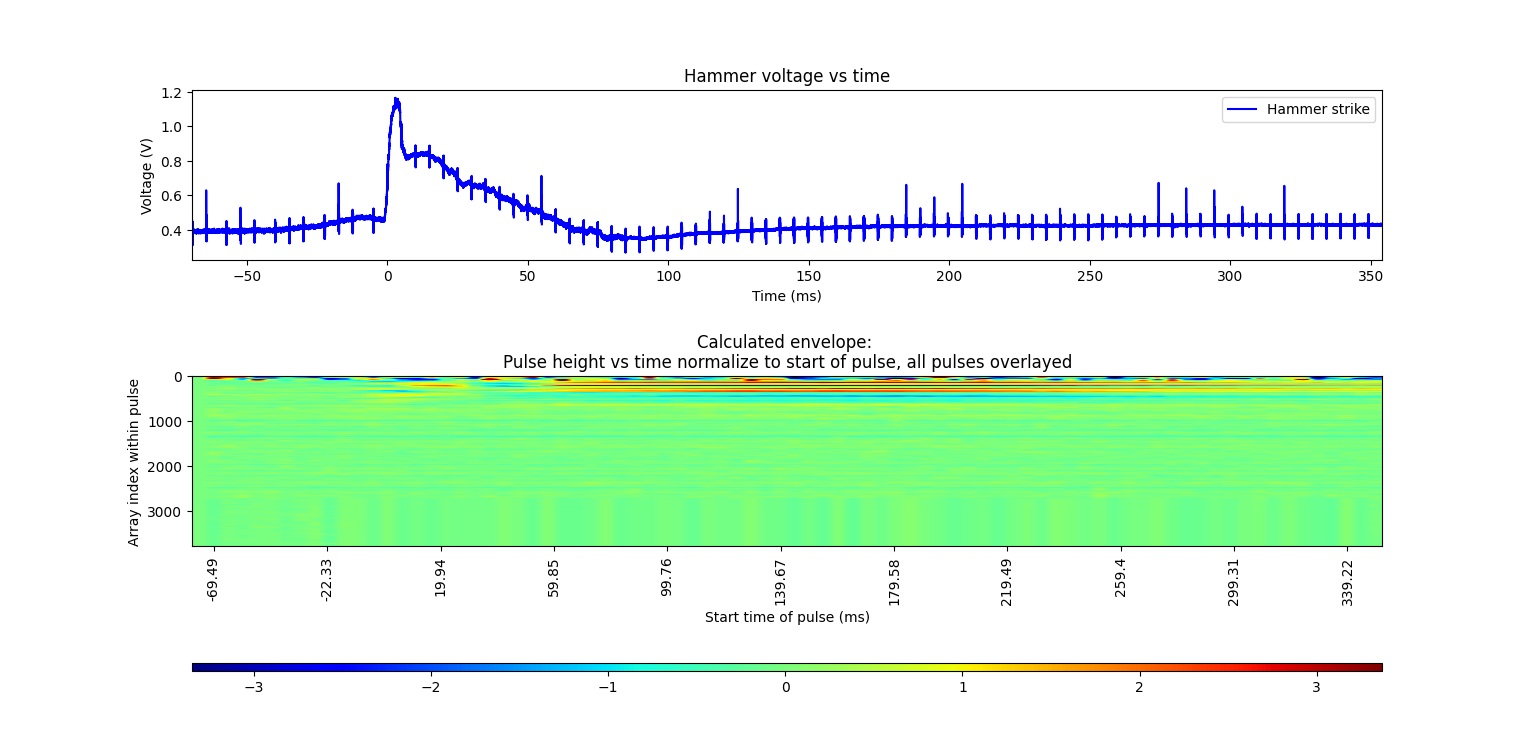
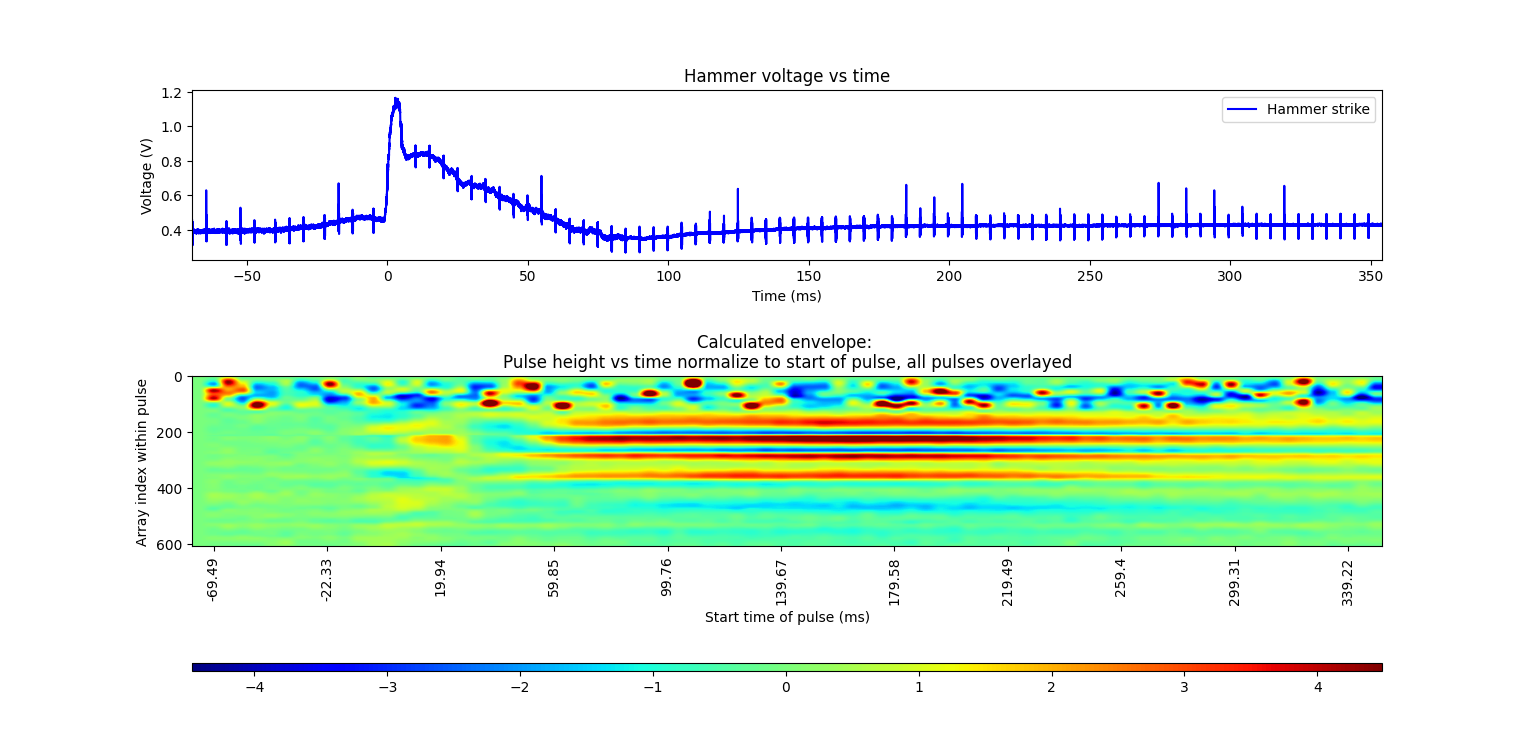
yer finished analyzing exp 11

Changed region(s): [[0.0625, 0.4881, 0.9062, 0.7321], [0.7812, 0.7626, 0.8125, 0.7931], [0.5, 0.7626, 0.5312, 0.7931]]

diff --git a/src/data_analysis_jupyter/analyze_Pico_data.py b/src/data_analysis_jupyter/analyze_Pico_data.py
@@ -486,9 +486,14 @@ def plot_heat_map(input_files, folder_path = "", png_name = "", stddev = 3, use_
     ax2.set_title(title_addend+' envelope: \nPulse height vs time normalize to start of pulse, all pulses overlayed')
     ax2.set_ylabel('Array index within pulse')
     ax2.set_xlabel('Start time of pulse (ms)')
+    
     time_tick_positions = np.arange(1, NUM_PULSES, NUM_PULSES / len(time_ticks))
-    ax2.set_xticks(ticks=time_tick_positions[0::int(len(time_ticks)/10)])
-    ax2.set_xticklabels(labels=time_ticks[0::int(len(time_ticks)/10)])
+    selected_positions = time_tick_positions[0::int(len(time_ticks)/10)]
+    selected_ticks = np.round(np.asarray(time_ticks[0::int(len(time_ticks)/10)]), 2)
+    selected_positions = selected_positions[:min(len(selected_ticks), len(selected_positions))]
+    selected_ticks = selected_ticks[:min(len(selected_ticks), len(selected_positions))]
+    ax2.set_xticks(ticks=selected_positions)
+    ax2.set_xticklabels(labels=selected_ticks)
     ax2.tick_params(axis='x', rotation=90)
 
     # Colorbar subplot
@@ -650,7 +655,12 @@ def plot_2d(input_file_array, legends, use_integral = True, use_calculated_env =
     total_sum_signal_times = []
     total_sum_signal_voltages = []
     i = 0
+
+    # To slice which part of the heatmap we are observing (set both to False to not slice)
     ignore_start_of_pulse = True
+    start_border_ms = 0.3 # Only look at the part of the pulse after this time in ms in the pulse
+    ignore_end_of_pulse = True
+    end_border_ms = 1.2 # Only look at the part of the pulse before this time in ms in the pulse
     
     # Find y-limit
     abs_max = 0
@@ -683,15 +693,20 @@ def plot_2d(input_file_array, legends, use_integral = True, use_calculated_env =
             dt = np.mean(np.diff(times_of_interest))
             these_times.append(times_of_interest[0])
 
-            # Slice off the beginning of the pulse
-            noise_border_index = 0
+            # Slice off the beginning and end of the pulse, if desired
             first_pulse = arr_of_interest[0]
+            start_border_index = 0
             if (ignore_start_of_pulse):
-                noise_border = 0.2 # Only look at the part of the pulse after this time in ms in the pulse
-                noise_border_index = np.searchsorted(times_of_interest, noise_border + times_of_interest[0], side='right')
-                times_of_interest = times_of_interest[noise_border_index:]
-                pulse_of_interest = pulse_of_interest[noise_border_index:]
-                first_pulse = first_pulse[noise_border_index:]
+                start_border_index = np.searchsorted(times_of_interest, start_border_ms + times_of_interest[0], side='right')
+                times_of_interest = times_of_interest[start_border_index:]
+                pulse_of_interest = pulse_of_interest[start_border_index:]
+                first_pulse = first_pulse[start_border_index:]
+            end_border_index = 0
+            if (ignore_end_of_pulse):
+                end_border_index = np.searchsorted(times_of_interest, end_border_ms + times_of_interest[0], side='left')
+                times_of_interest = times_of_interest[:end_border_index]
+                pulse_of_interest = pulse_of_interest[:end_border_index]
+                first_pulse = first_pulse[:end_border_index]
 
             if use_abs: pulse_of_interest = np.abs(pulse_of_interest - first_pulse)
 
@@ -746,7 +761,7 @@ def plot_2d(input_file_array, legends, use_integral = True, use_calculated_env =
 
     # Peaks and valleys of the "total"
     dt = np.mean(np.diff(total_sum_signal_times)) # in ms
-    min_dist_btw_peaks_in_ms = 50
+    min_dist_btw_peaks_in_ms = 30
     peaks, _ = find_peaks(total_sum_signal_voltages, distance=min_dist_btw_peaks_in_ms/dt)
     valleys, _ = find_peaks(-1*total_sum_signal_voltages, distance=min_dist_btw_peaks_in_ms/dt)
 
@@ -842,7 +857,7 @@ if __name__ == "__main__":
         "src/app_v1/data_from_experiments/lower_resolution_longer_time_trials/sina/Pico/sina_8ms_37.csv"
     ]
 
-    # RACHEL
+    ######## RACHEL
     rachel_no_box_indiv = [
         "src/app_v1/data_from_experiments/reflex_by_subject/Pico/rachel/rachel_no_box/rachel_t1.csv",
         "src/app_v1/data_from_experiments/reflex_by_subject/Pico/rachel/rachel_no_box/rachel_t2.csv",
@@ -856,6 +871,63 @@ if __name__ == "__main__":
         "src/app_v1/data_from_experiments/reflex_by_subject/Pico/rachel/rachel_no_box/rachel_t10.csv"
     ]
 
+    rachel_day_1_B1point5 = [
+        "src/app_v1/data_from_experiments/reflex_by_subject/Pico/rachel/rachel_8_30_24/rachel_1.csv",
+        "src/app_v1/data_from_experiments/reflex_by_subject/Pico/rachel/rachel_8_30_24/rachel_2.csv",
+        "src/app_v1/data_from_experiments/reflex_by_subject/Pico/rachel/rachel_8_30_24/rachel_3.csv",
+        "src/app_v1/data_from_experiments/reflex_by_subject/Pico/rachel/rachel_8_30_24/rachel_4.csv",
+        "src/app_v1/data_from_experiments/reflex_by_subject/Pico/rachel/rachel_8_30_24/rachel_5.csv",
+        "src/app_v1/data_from_experiments/reflex_by_subject/Pico/rachel/rachel_8_30_24/rachel_6.csv",
+        "src/app_v1/data_from_experiments/reflex_by_subject/Pico/rachel/rachel_8_30_24/rachel_7.csv",
+        "src/app_v1/data_from_experiments/reflex_by_subject/Pico/rachel/rachel_8_30_24/rachel_8.csv",
+        "src/app_v1/data_from_experiments/reflex_by_subject/Pico/rachel/rachel_8_30_24/rachel_9.csv",
+        "src/app_v1/data_from_experiments/reflex_by_subject/Pico/rachel/rachel_8_30_24/rachel_10.csv",
+    ]
+
+    rachel_day_2_B1point5 = [
+        "src/app_v1/data_from_experiments/reflex_by_subject/Pico/rachel/rachel_9_4_24/rachel1.csv",
+        "src/app_v1/data_from_experiments/reflex_by_subject/Pico/rachel/rachel_9_4_24/rachel2.csv",
+        "src/app_v1/data_from_experiments/reflex_by_subject/Pico/rachel/rachel_9_4_24/rachel3.csv",
+        "src/app_v1/data_from_experiments/reflex_by_subject/Pico/rachel/rachel_9_4_24/rachel4.csv",
+        "src/app_v1/data_from_experiments/reflex_by_subject/Pico/rachel/rachel_9_4_24/rachel5.csv",
+        "src/app_v1/data_from_experiments/reflex_by_subject/Pico/rachel/rachel_9_4_24/rachel6.csv",
+        "src/app_v1/data_from_experiments/reflex_by_subject/Pico/rachel/rachel_9_4_24/rachel7.csv",
+        "src/app_v1/data_from_experiments/reflex_by_subject/Pico/rachel/rachel_9_4_24/rachel8.csv",
+        "src/app_v1/data_from_experiments/reflex_by_subject/Pico/rachel/rachel_9_4_24/rachel9.csv",
+        "src/app_v1/data_from_experiments/reflex_by_subject/Pico/rachel/rachel_9_4_24/rachel10.csv"
+    ]
+
+    rachel_day_1_B5point5 = [
+        "src/app_v1/data_from_experiments/lower_resolution_longer_time_trials/rachel/Pico/rachel_8_30_24/rachel_long_trial_1_better.csv",
+        "src/app_v1/data_from_experiments/lower_resolution_longer_time_trials/rachel/Pico/rachel_8_30_24/rachel_long_trial_2.csv",
+        "src/app_v1/data_from_experiments/lower_resolution_longer_time_trials/rachel/Pico/rachel_8_30_24/rachel_long_trial_3.csv",
+        "src/app_v1/data_from_experiments/lower_resolution_longer_time_trials/rachel/Pico/rachel_8_30_24/rachel_long_trial_4.csv",
+        "src/app_v1/data_from_experiments/lower_resolution_longer_time_trials/rachel/Pico/rachel_8_30_24/rachel_long_trial_5.csv",
+        "src/app_v1/data_from_experiments/lower_resolution_longer_time_trials/rachel/Pico/rachel_8_30_24/rachel_long_trial_6.csv",
+        "src/app_v1/data_from_experiments/lower_resolution_longer_time_trials/rachel/Pico/rachel_8_30_24/rachel_long_trial_7.csv",
+        "src/app_v1/data_from_experiments/lower_resolution_longer_time_trials/rachel/Pico/rachel_8_30_24/rachel_long_trial_8.csv",
+        "src/app_v1/data_from_experiments/lower_resolution_longer_time_trials/rachel/Pico/rachel_8_30_24/rachel_long_trial_9.csv"
+    ]
+
+    rachel_day_2_B5point5 = [
+        "src/app_v1/data_from_experiments/lower_resolution_longer_time_trials/rachel/Pico/rachel_9_4_24/rachel1.csv",
+        "src/app_v1/data_from_experiments/lower_resolution_longer_time_trials/rachel/Pico/rachel_9_4_24/rachel2.csv",
+        "src/app_v1/data_from_experiments/lower_resolution_longer_time_trials/rachel/Pico/rachel_9_4_24/rachel3.csv",
+        "src/app_v1/data_from_experiments/lower_resolution_longer_time_trials/rachel/Pico/rachel_9_4_24/rachel4.csv",
+        "src/app_v1/data_from_experiments/lower_resolution_longer_time_trials/rachel/Pico/rachel_9_4_24/rachel5.csv"
+    ]
+
+
+    #### HAMID
+
+    hamid_indiv_long_trials = [
+        "src/app_v1/data_from_experiments/lower_resolution_longer_time_trials/hamid/Pico/hamidtrial11.csv",
+        "src/app_v1/data_from_experiments/lower_resolution_longer_time_trials/hamid/Pico/hamidtrial13.csv",
+        "src/app_v1/data_from_experiments/lower_resolution_longer_time_trials/hamid/Pico/hamidtrial14.csv",
+        "src/app_v1/data_from_experiments/lower_resolution_longer_time_trials/hamid/Pico/hamidtrial15.csv",
+        "src/app_v1/data_from_experiments/lower_resolution_longer_time_trials/hamid/Pico/hamidtrial16.csv",
+    ]
+
     #####################################################################################################
     #####################################################################################################
     #####################################################################################################
@@ -863,7 +935,7 @@ if __name__ == "__main__":
     # REMINDER: col_index_order: col_indexes = [times, hammer, transmit, recieved, circuit_env, emg = 1]
     
     # !!!!!!!!!!!!!!!!!!!!!!!!!!!!!!!!!!!!!!!!!!!!!!!!!!!! Example usage: Uncomment to analyze one trial.
-    #''' 
+    ''' 
     # !!!!!!!!!!!!!!! User should edit: file_name, col_order as needed.
     file_name = box_file_names_sina_B5point5[0]
     col_order = [0, 3, 4, 1, 2, 1]  # time, recieved, env, hammer, square
@@ -890,27 +962,6 @@ if __name__ == "__main__":
     # Heat map of calculated envelope
     plot_heat_map(my_arr, folder_path=file_folder_name, png_name=specific_file_name, stddev=6, plot_circuit_env=False)
 
-    # plot 2D
-    #'''
-    hammer_times = my_arr[0]
-    hammer_recieved = my_arr[1]
-    emg_recieved = my_arr[2]
-    cuff_times_reshaped = my_arr[3]
-    cuff_recieved_reshaped = my_arr[4]
-    circuit_env_reshaped = my_arr[5]
-    calculated_envelope_reshaped = my_arr[6]
-    time_ticks = my_arr[7]
-    NUM_PULSES = my_arr[8]
-    new_pulse_arr = []
-    new_time_arr = cuff_times_reshaped[:,0]
-    first_pulse = calculated_envelope_reshaped[0]
-    for r in range(NUM_PULSES):
-        this_pulse = calculated_envelope_reshaped[r]
-        new_pulse_arr.append(np.average(np.abs(this_pulse[150:] - first_pulse[150:])))
-    plt.plot(new_time_arr, new_pulse_arr)
-    plt.show()
-    #'''
-
     # GIF of calculated envelope and recieved pulses.
     # get_gif(my_csv, col_order, save_as_mp4=False, plot_circuit_envelope = False, file_folder_name=file_folder_name, specific_file_name=specific_file_name)
     
@@ -927,8 +978,8 @@ if __name__ == "__main__":
     # !!!!!!!!!!!!!!! User should edit: legends, col_order, file_names as needed.
     legends = ["T1", "T2", "T3", "T4", "T5", "T6", "T7", "T8", "T9", "T10"]
     col_order = [0, 3, 4, 1, 2, 1]  # time, recieved, ENVELOPE, hammer, square
-    file_names = box_file_names_sina_B5point5
-    experiment_name = "Exp_Summary_Sina_B5.5"
+    file_names = hamid_indiv_long_trials
+    experiment_name = "Exp_Summary_Hamid_B5.5"
     analyze_circuit_env = False
     # !!!!!!!!!!!!!!!
 
@@ -975,8 +1026,8 @@ if __name__ == "__main__":
 
     ############################################## ACTUAL PLOTTING #############################################    
     # Plot the overlayed line plots of each trial. The saved image will have the variance across lines in it.
-    # plot_2d(input_files_across_trials, legends, use_abs=True, use_calculated_env=True, folder=file_folder_name, title=experiment_name)
+    plot_2d(input_files_across_trials, legends, use_abs=True, use_calculated_env=(not analyze_circuit_env), folder=file_folder_name, title=experiment_name)
 
     # Plot the average heatmap across all trials for this experiment.
-    # plot_heat_map(combined_input_file, stddev=6, plot_circuit_env=analyze_circuit_env, folder_path=file_folder_name, png_name=experiment_name+"_average")
+    plot_heat_map(combined_input_file, stddev=6, plot_circuit_env=analyze_circuit_env, folder_path=file_folder_name, png_name=experiment_name+"_average")
     # '''  
